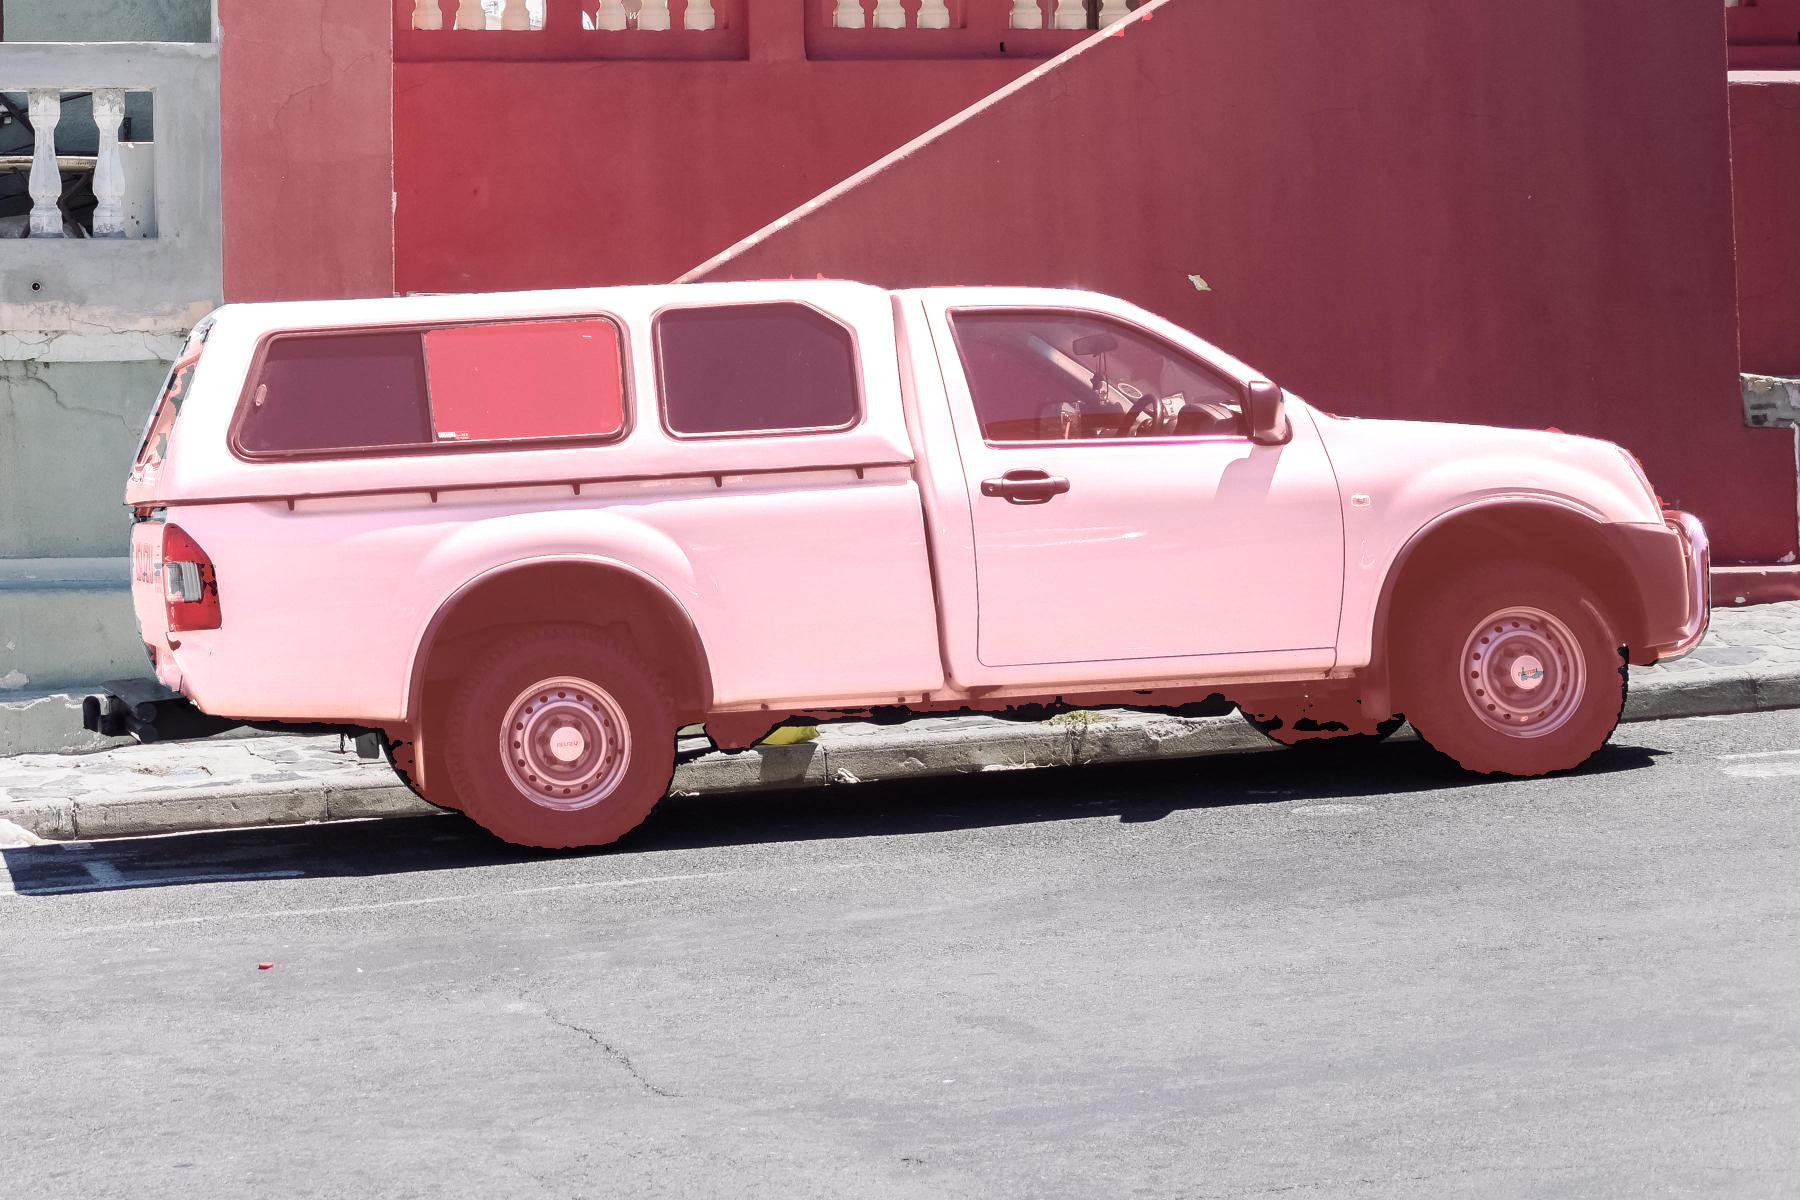
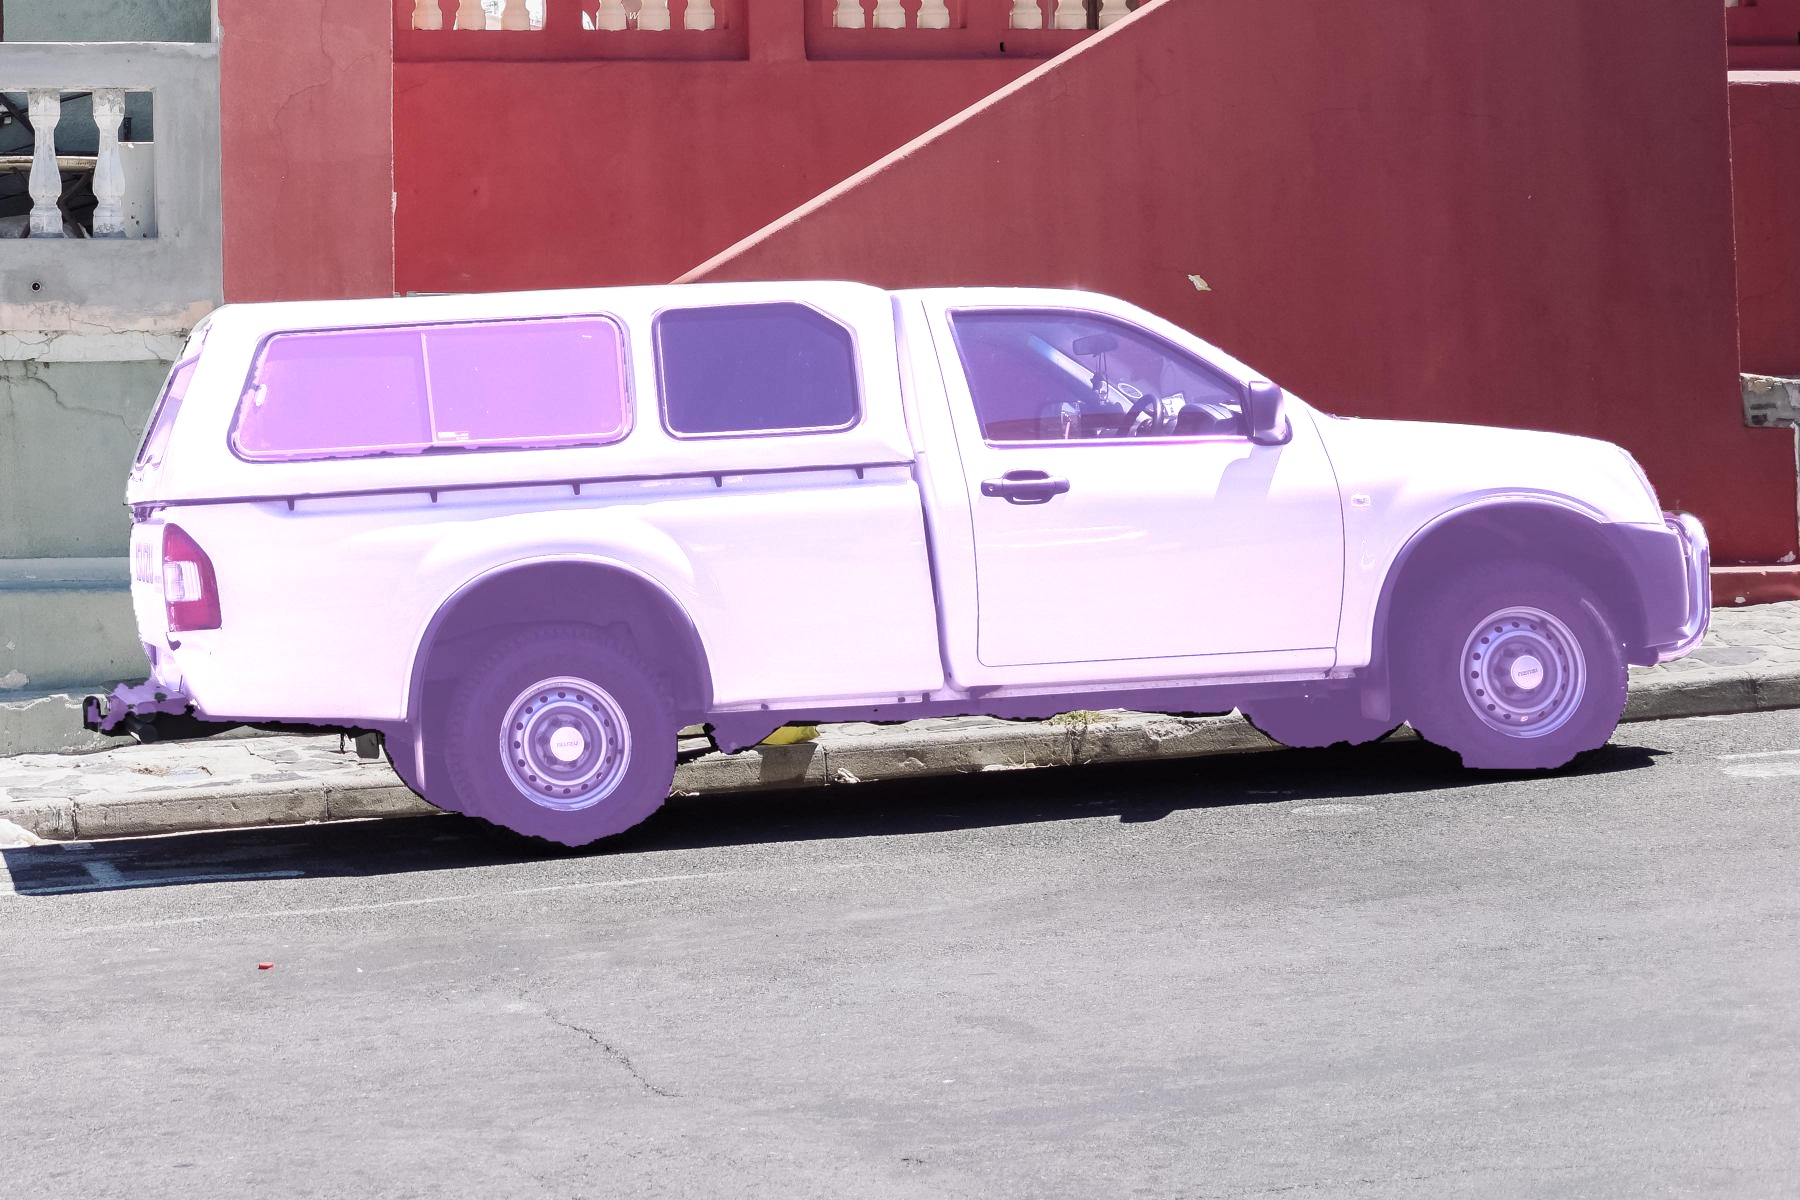
fix(sam2): fix error in sam2. jira: 1.https://jira.sophgo.com/browse/SLSOFTTASK-1520 2.https://jira.sophgo.com/browse/SLSOFTTASK-1521 3.https://jira.sophgo.com/browse/SLSOFTTASK-1522

Changed region(s): [[0.0311, 0.2467, 0.9644, 0.7092]]

diff --git a/sample/SAM2/python/sam2_opencv.py b/sample/SAM2/python/sam2_opencv.py
@@ -253,9 +253,7 @@ class SAM2Image:
         self.image_embeddings = self.sam2_encoder(self.img)
         self.sam2_decoder = SAM2ImageDecoder(
             self.decoder_path,
-            self.sam2_encoder.input_shape[2:],
-            (1024, 1024),
-            self.select_best,
+            self.sam2_encoder.input_shape[2:]
         )
         self.encoder_time += self.sam2_encoder.encoder_time
         self.preprocess_time += self.sam2_encoder.preprocess_time
@@ -352,8 +350,8 @@ def pred_dataset(args):
         centers_info = data_info["centers_info"]
         image_id = data_info["image_id"]
         h, w, _ = img.shape
-        scale_x = 1024 / h
-        scale_y = 1024 / w
+        scale_x = 1024 / w
+        scale_y = 1024 / h
         sam2.set_image(img)
 
         bbox_list = []
@@ -362,10 +360,11 @@ def pred_dataset(args):
             label = center_info["label"]
             bbox_list.append(center_info["bbox"])
             # 对中心点坐标和segmentation的坐标进行相应的缩放
-            point = [point[0] * scale_y, point[1] * scale_x]
+            point = [point[0] * scale_x, point[1] * scale_y]
             sam2.add_point(point, label)
 
         res = sam2.predict()
+        sam2.save_img(os.path.join(args.output_dir, "images", str(image_id)))
         segmentations = []
         for key in res.keys():
             _res = res[key]
@@ -426,7 +425,7 @@ def pred(args):
             sam2.add_box(point, args.label)
 
     sam2.predict()
-    sam2.save_img(os.path.join(args.output_dir, "image", "res"))
+    sam2.save_img(os.path.join(args.output_dir, "images", "res"))
 
     preprocess_time, encoder_time, decoder_time, postprocess_time = (
         sam2.get_times_info()

diff --git a/sample/SAM2/tools/compare_statis.py b/sample/SAM2/tools/compare_statis.py
@@ -26,7 +26,8 @@ baseline = """
 table_data = {
     "platform": [],
     "program": [],
-    "bmodel": [],
+    "encoder_bmodel": [],
+    "decoder_bmodel": [],
     "preprocess_time": [],
     "encoder_time": [],
     "decoder_time": [],
@@ -35,7 +36,7 @@ table_data = {
 
 
 patterns_python = {
-    "preprocess_time": re.compile(r"Image preprocess time\(ms\): ([\d.]+)"),
+    "preprocess_time": re.compile(r"Preprocess time\(ms\): ([\d.]+)"),
     "encoder_time": re.compile(r"Encoder time\(ms\): ([\d.]+)"),
     "decoder_time": re.compile(r"Decoder time\(ms\): ([\d.]+)"),
     "postprocess_time": re.compile(r"Postprocess time\(ms\): ([\d.]+)"),
@@ -74,7 +75,7 @@ def argsparser():
     parser.add_argument("--program", type=str, default="sam2_opencv.py")
     parser.add_argument("--language", type=str, default="python")
     parser.add_argument(
-        "--input", type=str, default="../log/sam2_decoder_f16_1b_2core_python_test.log"
+        "--input", type=str, default="../log/sam2_opencv_decoder_f16_1b_2core_python_test.log"
     )
     parser.add_argument(
         "--use_cpu_opt",
@@ -154,7 +155,6 @@ if __name__ == "__main__":
         if (
             platform == table_data["platform"][i]
             and args.program == table_data["program"][i]
-            and args.bmodel == table_data["bmodel"][i]
         ):
             match_index = i
             break

diff --git a/sample/SAM2/README.md b/sample/SAM2/README.md
@@ -6,17 +6,22 @@
   - [目录](#目录)
   - [1. 简介](#1-简介)
   - [2. 特性](#2-特性)
+    - [2.1 目录结构说明](#21-目录结构说明)
+    - [2.2 SDK特性](#22-SDK特性)
   - [3. 准备模型与数据](#3-准备模型与数据)
-  - [4. 模型编译](#4-模型编译)
-  - [5. 例程测试](#5-例程测试)
+    - [3.1 数据准备](#31-数据准备)
+    - [3.2 模型编译](#32-模型编译)
+  - [4. 例程测试](#4-例程测试)
+  - [5. 精度测试](#5-精度测试)
+    - [5.1 测试方法](#51-测试方法)
+    - [5.2 测试结果](#52-测试结果)
   - [6. 性能测试](#6-性能测试)
     - [6.1 bmrt\_test](#61-bmrt_test)
     - [6.2 程序运行性能](#62-程序运行性能)
-  - [7. FAQ](#7-faq)
   
 ## 1. 简介
 
-SAM2是Meta基于SAM提出一种实时图像和视频分割模型。SAM2适用于图像和视频。而SAM的先前版本是专门为图像使用而构建的。本例程对[SAM2官方开源仓库](https://github.com/facebookresearch/segment-anything-2)的模型和算法进行移植，使之能在SOPHON BM1688上进行推理测试。
+SAM2是Meta基于SAM提出的一种实时图像和视频分割模型。SAM2适用于图像和视频。而SAM的先前版本是专门为图像使用而构建的。本例程对[SAM2官方开源仓库](https://github.com/facebookresearch/segment-anything-2)的模型和算法进行移植，使之能在SOPHON BM1688上进行推理测试。
 
 ## 2. 特性
 ### 2.1 目录结构说明
@@ -32,15 +37,15 @@
 │   └── README.md                                      # SAM2 Python例程的说明文件
 ├── README.md                                          # 本例程的中文指南
 ├── scripts
-│   ├── auto_test.sh                                    # 自动化测试脚本
+│   ├── auto_test.sh                                   # 自动化测试脚本
 │   ├── download.sh                                    # 模型和数据集下载脚本
 │   ├── gen_fp16bmodel_mlir.sh                         # F16 bmodel编译脚本
 │   └── gen_fp32bmodel_mlir.sh                         # F32 bmodel编译脚本
 └── tools
     └──eval.py                                         # 精度测试例程，目前只支持coco数据集
     └──compare_statis.py                               # 性能对比例程
-
 ```
+
 ### 2.2 SDK特性
 * 支持BM1688(SoC)
 * 图像编码器（Image Encoder）部分支持FP16、FP32的模型编译和推理，支持1core和2core
@@ -57,7 +62,7 @@
 
 ### 3.1 数据准备
 
-本例程在`scripts`目录下提供了相关模型和数据的下载脚本`download.sh`，您也可以自己准备模型和数据集，并参考[4. 模型编译](#4-模型编译)进行模型转换。
+本例程在`scripts`目录下提供了相关模型和数据的下载脚本`download.sh`，您也可以自己准备模型和数据集，并参考3.2进行模型转换。
 
 ```bash
 # 安装unzip，若已安装请跳过，非ubuntu系统视情况使用yum或其他方式安装
@@ -71,15 +76,15 @@ chmod -R +x scripts/
 ./SAM2
 ├── BM1688
 │   ├── image_decoder
+│   |   ├── sam2_decoder_f16_1b_1core.bmodel           # decoder部分fp16 1core bmodel
+│   |   ├── sam2_decoder_f16_1b_2core.bmodel           # decoder部分fp16 2core bmodel
 │   |   ├── sam2_decoder_f32_1b_1core.bmodel           # decoder部分fp32 1core bmodel
-│   |   ├── sam2_decoder_f32_1b_1core.bmodel           # decoder部分fp32 1core bmodel
-│   |   ├── sam2_decoder_f32_1b_2core.bmodel           # decoder部分fp32 2core bmodel
-│   │   └── sam2_decoder_f16_1b_2core.bmodel           # decoder部分fp16 2core bmodel
+│   │   └── sam2_decoder_f32_1b_2core.bmodel           # decoder部分fp32 2core bmodel
 │   └── image_encoder
-│       |── sam2_encoder_f16_1b_1core.bmodel           # encoder部分fp32 1core bmodel
-│       ├── sam2_encoder_f32_1b_1core.bmodel           # decoder部分fp16 1core bmodel
-│       ├── sam2_encoder_f32_1b_2core.bmodel           # decoder部分fp32 2core bmodel
-|       └── sam2_encoder_f16_1b_2core.bmodel           # encoder部分fp16 2core bmodel
+│       |── sam2_encoder_f16_1b_1core.bmodel           # encoder部分fp16 1core bmodel
+│       ├── sam2_encoder_f16_1b_2core.bmodel           # encoder部分fp16 2core bmodel
+│       ├── sam2_encoder_f32_1b_1core.bmodel           # encoder部分fp32 1core bmodel
+|       └── sam2_encoder_f32_1b_2core.bmodel           # encoder部分fp32 2core bmodel
 ├── onnx
 │   ├── sam2_hiera_tiny_decoder.onnx                   # 由原模型导出的，decoder部分onnx模型，输出置信度前三的mask 
 │   └── sam2_hiera_tiny_encoder.onnx                   # 由原模型导出的, encoder部分onnx模型
@@ -111,7 +116,7 @@ chmod -R +x scripts/
 ./scripts/gen_fp32bmodel_mlir.sh
 ```
 
-执行上述命令会在`models/BM1688/image_encoder`和`models/BM1688/image_encoder`下生成`sam2_encoder_f32_1b_1core.bmodel`和`sam2_encoder_f32_1b_2core.bmodel`,在`models/BM1688/image_decoder`下生成`sam2_decoder_f32_1b_1core.bmodel`及`sam2_decoder_f32_1b_2core.bmodel`文件，即转换好的图像编码和解码的单双核FP32 BModel。
+执行上述命令会在`models/BM1688/image_encoder`下生成`sam2_encoder_f32_1b_1core.bmodel`和`sam2_encoder_f32_1b_2core.bmodel`,在`models/BM1688/image_decoder`下生成`sam2_decoder_f32_1b_1core.bmodel`及`sam2_decoder_f32_1b_2core.bmodel`文件，即转换好的图像编码和解码的单双核FP32 BModel。
 
 - 生成FP16 BModel
 
@@ -121,7 +126,7 @@ chmod -R +x scripts/
 ./scripts/gen_fp16bmodel_mlir.sh 
 ```
 
-执行上述命令会在`models/BM1688/image_encoder`和`models/BM1688/image_decoder`下生成`sam2_encoder_f16_1b_1core.bmodel`和`sam2_encoder_f16_1b_2core.bmodel`,在`models/BM1688/image_decoder`下生成`sam2_decoder_f16_1b_1core.bmodel`及`sam2_decoder_f16_1b_2core.bmodel`文件，即转换好的图像编码和解码的单双核FP16 BModel。
+执行上述命令会在`models/BM1688/image_encoder`下生成`sam2_encoder_f16_1b_1core.bmodel`和`sam2_encoder_f16_1b_2core.bmodel`,在`models/BM1688/image_decoder`下生成`sam2_decoder_f16_1b_1core.bmodel`及`sam2_decoder_f16_1b_2core.bmodel`文件，即转换好的图像编码和解码的单双核FP16 BModel。
 
 ## 4. 例程测试
 ### [Python例程](./python/README.md)
@@ -132,19 +137,18 @@ chmod -R +x scripts/
 然后，使用tools目录下的eval.py脚本，将测试生成的json文件与测试集标签json文件进行对比，计算出目标检测的评价指标，命令如下：
 
 ```bash
-
-python3 python/sam2_opencv.py --mode dataset --img_path datasets/val2017 --detect_num 200
-python3 tools/eval.py --gt_path datasets/instances_val2017.json --res_path results/sam2_encoder_f16
-_1b_2core_COCODataset_opencv_python_result.json
+python3 python/sam2_opencv.py --mode dataset --img_path datasets/val2017  --detect_num 200 --encoder_bmodel models/BM1688/image_encoder/sam2_encoder_f16_1b_2core.bmodel --decoder_bmodel models/BM1688/image_decoder/sam2_decoder_f16_1b_2core.bmodel
+python3 tools/eval.py --gt_path datasets/instances_val2017.json --res_path results/sam2_encoder_f16_1b_2core_COCODataset_opencv_python_result.json
 ```
 ### 5.2 测试结果
 本实例的测试方式为将COCO数据集内目标的bbox中心点作为SAM2输入的points prompt。在COCO数据集中测试选择的图像越多，mIoU的指标越高，下图中测试图像为200张。
-|   测试平台    |            测试程序            |    测试模型        | mIoU |
-|----------|----------|----------|----------|
-| SE9-16       | sam2_opencv.py     | sam2_encoder_f32_1b_1core.bmodel |    0.472|
-| SE9-16       | sam2_opencv.py     | sam2_encoder_f32_1b_2core.bmodel |    0.472|
-| SE9-16       | sam2_opencv.py     | sam2_encoder_f16_1b_1core.bmodel |    0.471|
-| SE9-16       | sam2_opencv.py     | sam2_encoder_f16_1b_2core.bmodel |    0.471|
+
+|   测试平台    |       测试程序      |          encoder_bmodel         |           decoder_bmodel        |   mIoU   |
+|  ----------- |------------------- |--------------------------------- |-------------------------------- |-------- |
+| SE9-16       | sam2_opencv.py     | sam2_encoder_f32_1b_1core.bmodel | sam2_decoder_f32_1b_1core.bmodel|    0.472|
+| SE9-16       | sam2_opencv.py     | sam2_encoder_f32_1b_2core.bmodel | sam2_decoder_f32_1b_2core.bmodel|    0.472|
+| SE9-16       | sam2_opencv.py     | sam2_encoder_f16_1b_1core.bmodel | sam2_decoder_f16_1b_1core.bmodel|    0.468|
+| SE9-16       | sam2_opencv.py     | sam2_encoder_f16_1b_2core.bmodel | sam2_decoder_f16_1b_2core.bmodel|    0.468|
 
 ## 6. 性能测试
 ### 6.1 bmrt_test

diff --git a/sample/SAM2/python/README.md b/sample/SAM2/python/README.md
@@ -15,9 +15,9 @@
 
 python目录下提供了Python例程，具体情况如下：
 
-| 序号 | Python例程    | 说明                                                                 |
-| ---- | ------------- | -------------------------------------------------------------------- |
-| 1    | sam_opencv.py | 使用OpenCV解码、SAIL 图像压缩(embedding)、SAIL图像推理(mask_decoder) |
+| 序号 | Python例程     | 说明                                                                |
+| ---- | ------------- | ------------------------------------------------------------------ |
+| 1    | sam2_opencv.py | 使用OpenCV解码、SAIL 图像编码(encoder)、SAIL图像解码(decoder) |
 
 ## 1. 环境准备
 
@@ -25,18 +25,16 @@ python目录下提供了Python例程，具体情况如下：
 
 算能的SoC平台（如SE、SM系列边缘设备）在`/opt/sophon/`下已经预装了相应的libsophon、sophon-opencv和sophon-ffmpeg运行库包。但除此之外您还需要交叉编译安装sophon-sail，具体可参考[交叉编译安装sophon-sail](../../../docs/Environment_Install_Guide.md#42-交叉编译安装sophon-sail)。
 
-设置环境变量，指定opencv为sophon-opencv，这将带来更快的解码速度：
+在运行之前您需要先安装一些Python依赖， 可以通过pip直接安装
 ```bash
-export PYTHONPATH=$PYTHONPATH:/opt/sophon/libsophon-current/lib:/opt/sophon/sophon-opencv-latest/opencv-python/
+pip3 install opencv-python pympler tqdm
 ```
-
-如果您需要测试精度，您可能还需要安装pycocotools：
+如果您需要测试精度，您还需要安装pycocotools：
 ```bash
 pip3 install pycocotools
 ```
 
 ## 2. 推理测试
-python例程不需要编译，可以直接运行，PCIe平台和SoC平台的测试参数和运行方式是相同的。
 ### 2.1 参数说明
 sam_opencv.py的参数说明如下：
 ```bash
@@ -53,7 +51,7 @@ optional arguments:
   --dataset_type              数据集类型。目前支持的选项包括 'COCODataset'
   --gt_path                   真值文件的路径
   --detect_num                在数据集模式下，用于分割的图像数量
-  --output_dir                用于保存模型输出结果的目录。
+  --output_dir                用于保存模型输出结果的目录
   --encoder_bmodel            编码器模型文件的路径
   --decoder_bmodel            解码器模型文件的路径
   --select_best               是否选择最佳掩模进行分割
@@ -61,7 +59,7 @@ optional arguments:
 ### 2.2 测试图片
 
 #### 2.2.1 单点测试 
-运行sam2_opencv.py进行历程测试，此处以`datasets/truck.jpg`为例进行测试，输入一个point坐标，并指定其标签
+运行sam2_opencv.py进行例程测试，此处以`datasets/truck.jpg`为例进行测试，输入一个point坐标，并指定其标签
 
 原始图像：
 
@@ -89,9 +87,10 @@ python3 python/sam2_opencv.py --img_path datasets/truck.jpg --points '[[500, 375
 </div>
 
 #### 2.2.3 边框测试 
+
 输入一个框，并指定其标签
 ```bash
-python3 python/sam2_opencv.py --img_path datasets/truck.jpg --points '[[500, 375, 200, 200]]' --label 1 --encoder_bmodel models/BM1688/image_encoder/sam2_encoder_f16_1b_2core.bmodel --decoder_bmodel models/BM1688/image_decoder/sam2_decoder_f16_1b_2core.bmodel
+python3 python/sam2_opencv.py --img_path datasets/truck.jpg --points '[[900, 300, 350, 350]]' --label 1 --encoder_bmodel models/BM1688/image_encoder/sam2_encoder_f16_1b_2core.bmodel --decoder_bmodel models/BM1688/image_decoder/sam2_decoder_f16_1b_2core.bmodel
 ```
 
 输出结果为：
